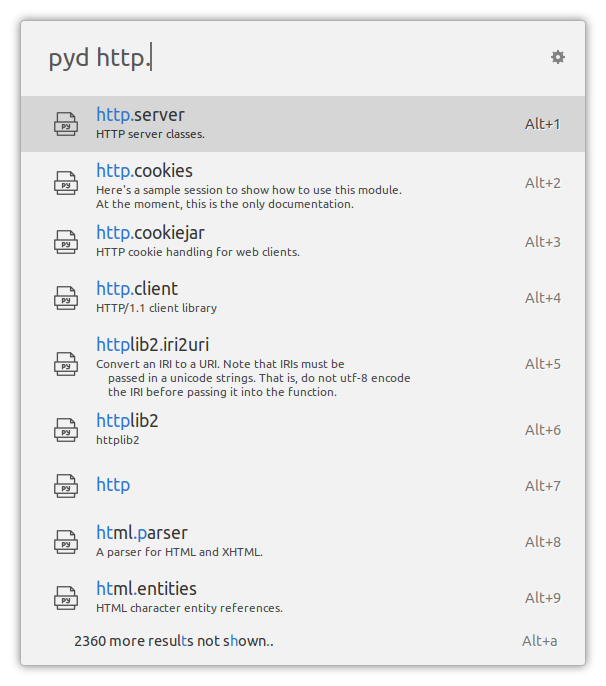
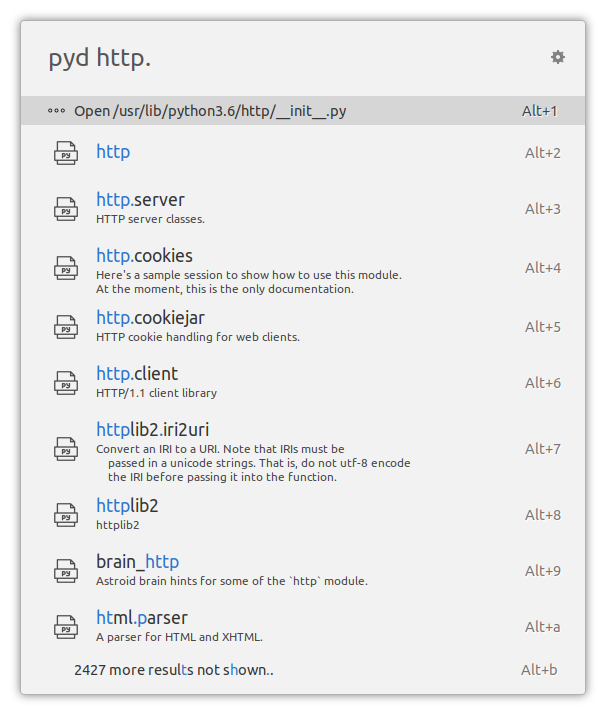
readme: alt+enter and open source file

diff --git a/README.md b/README.md
@@ -1,6 +1,6 @@
 # ulauncher-pydoc
 
-A [Ulauncher](https://ulauncher.io/) extension to search and view installed Python modules' and packages' built-in documentation. Uses the `pydoc` module that comes with Python to generate the documentation and make it available via HTTP.
+A [Ulauncher](https://ulauncher.io/) extension to search and view installed Python modules' and packages' built-in documentation. Uses the `pydoc` package that comes with Python to generate the documentation and make it available via HTTP.
 
 
 ## Usage
@@ -9,11 +9,13 @@ Open Ulauncher and type in "pyd " to start the extension. If everything is confi
 
 ![All modules, no query](images/screenshots/empty-query.png)
 
-Start typing a search query to get search results. It uses the same fuzzy string search algorithm as Ulauncher itself.
+Start typing a query to search for a matching package or module name. It uses the same fuzzy string search algorithm as Ulauncher itself.
 
 ![Query 1](images/screenshots/search-query1.png)
 
-Use dot `.` to search submodules and nested packages:
+Type in `.` (dot) after the package name to search submodules and nested packages, or press Alt+Enter to complete the name of the selected search result item.
+
+Whenever there's an exact match on the query, you can choose to open that module's source file in your default editor:
 
 ![Query 2](images/screenshots/search-query2.png)
 
